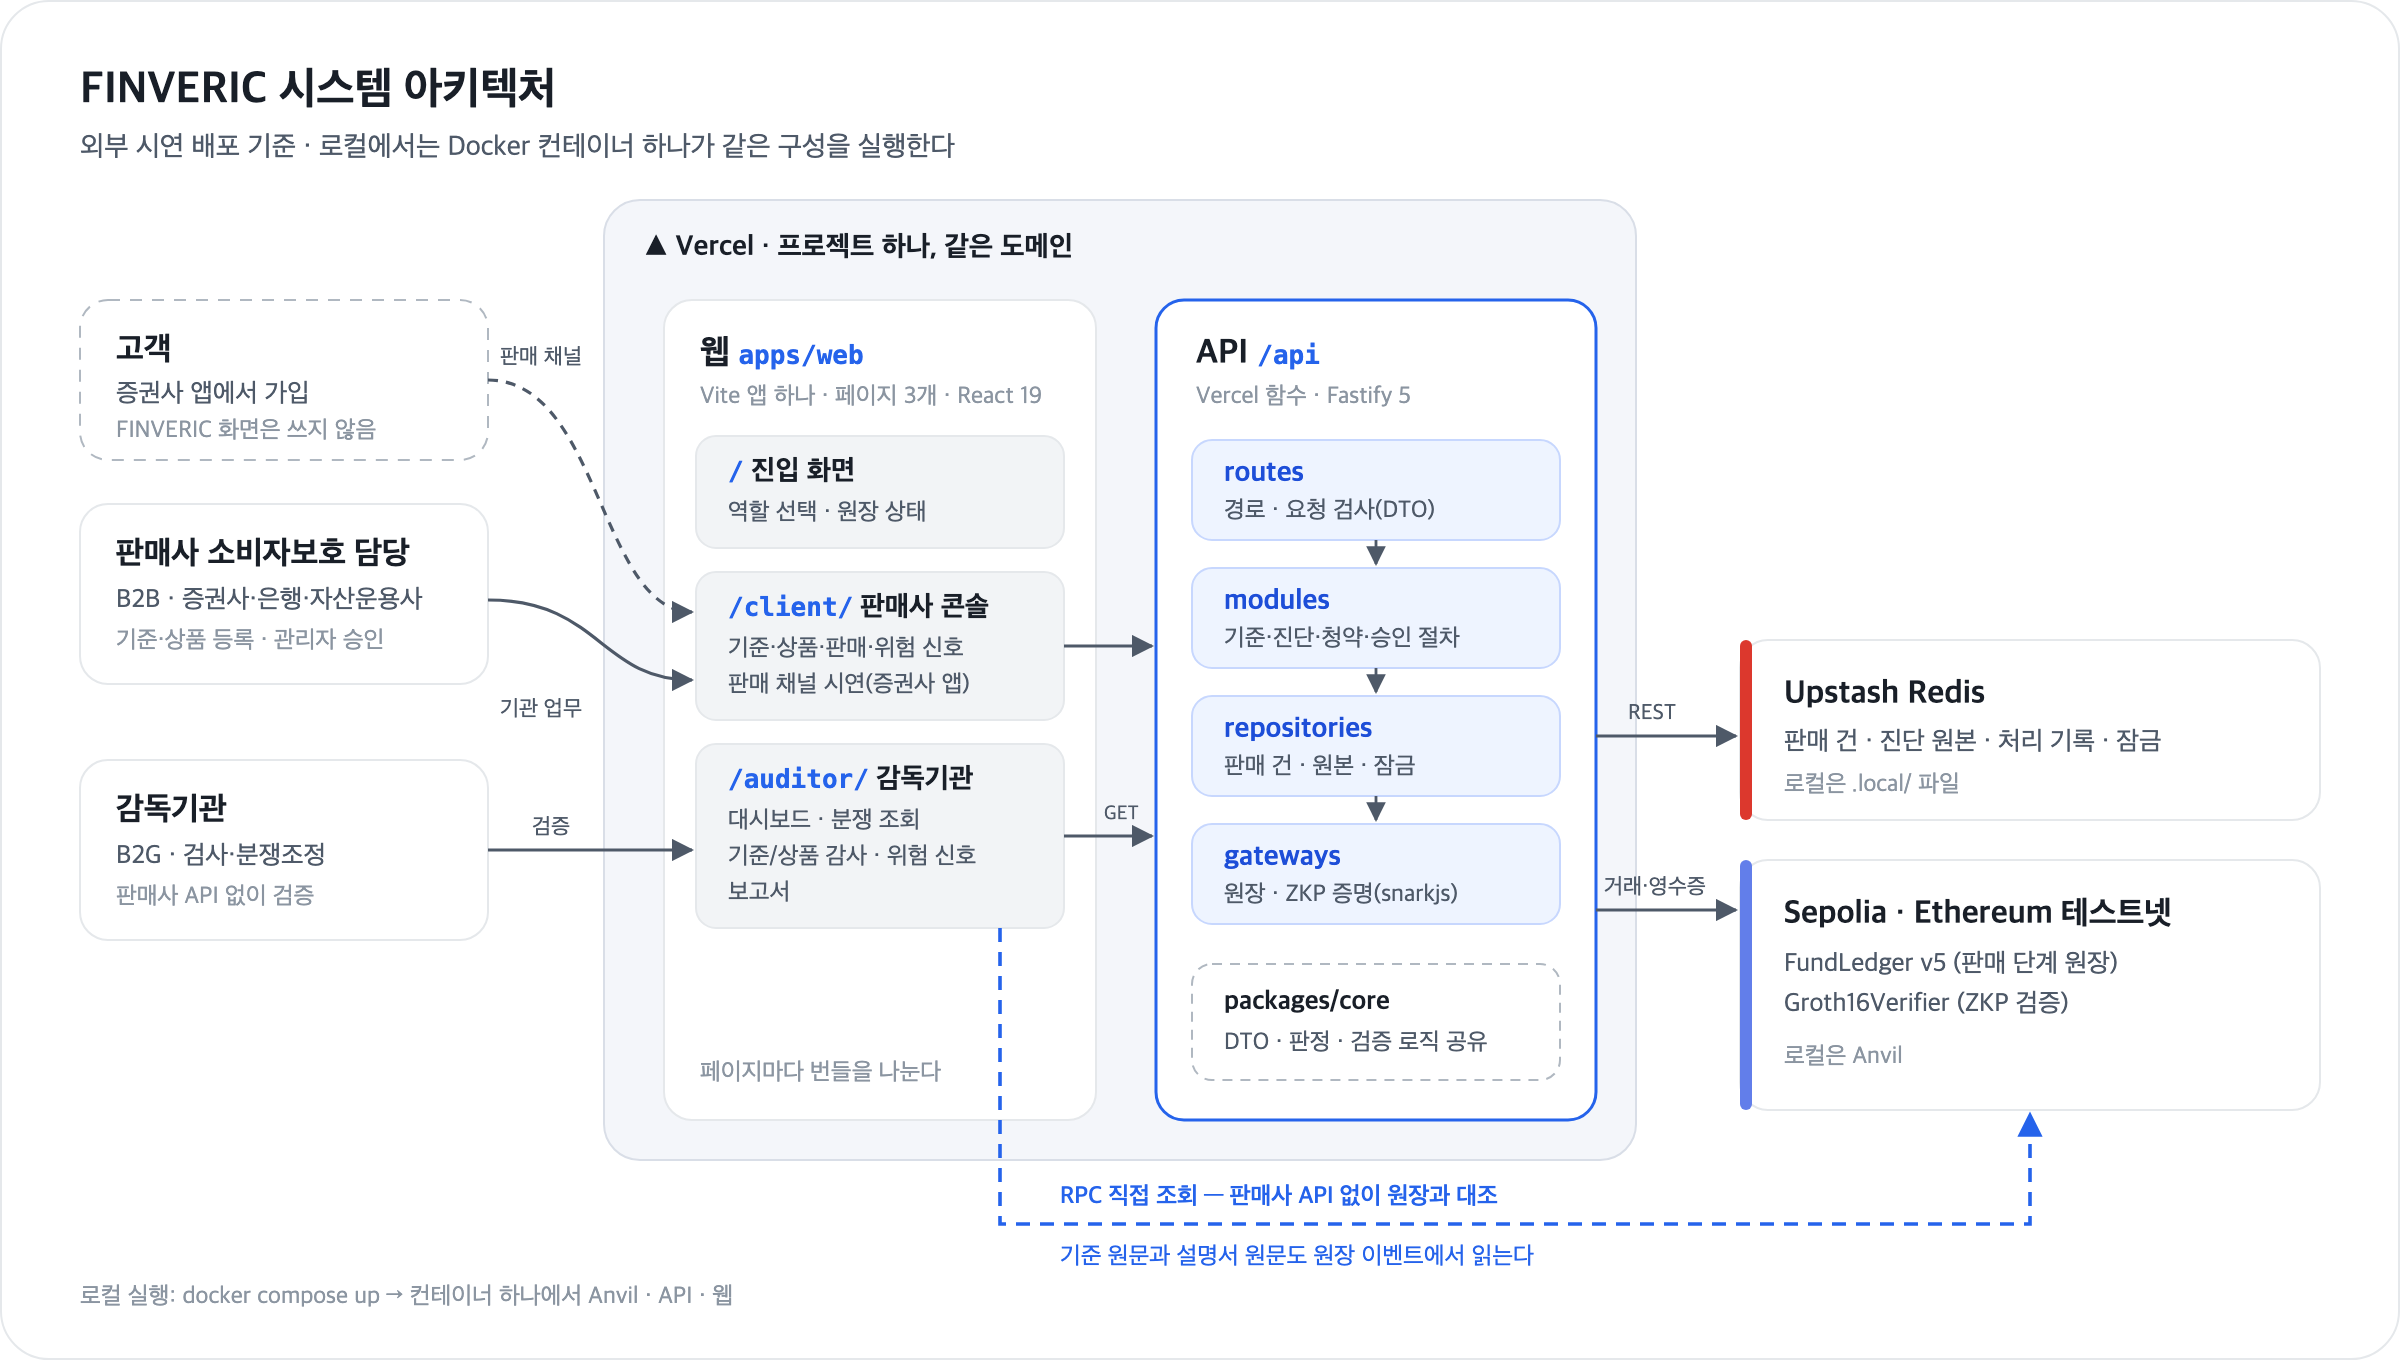
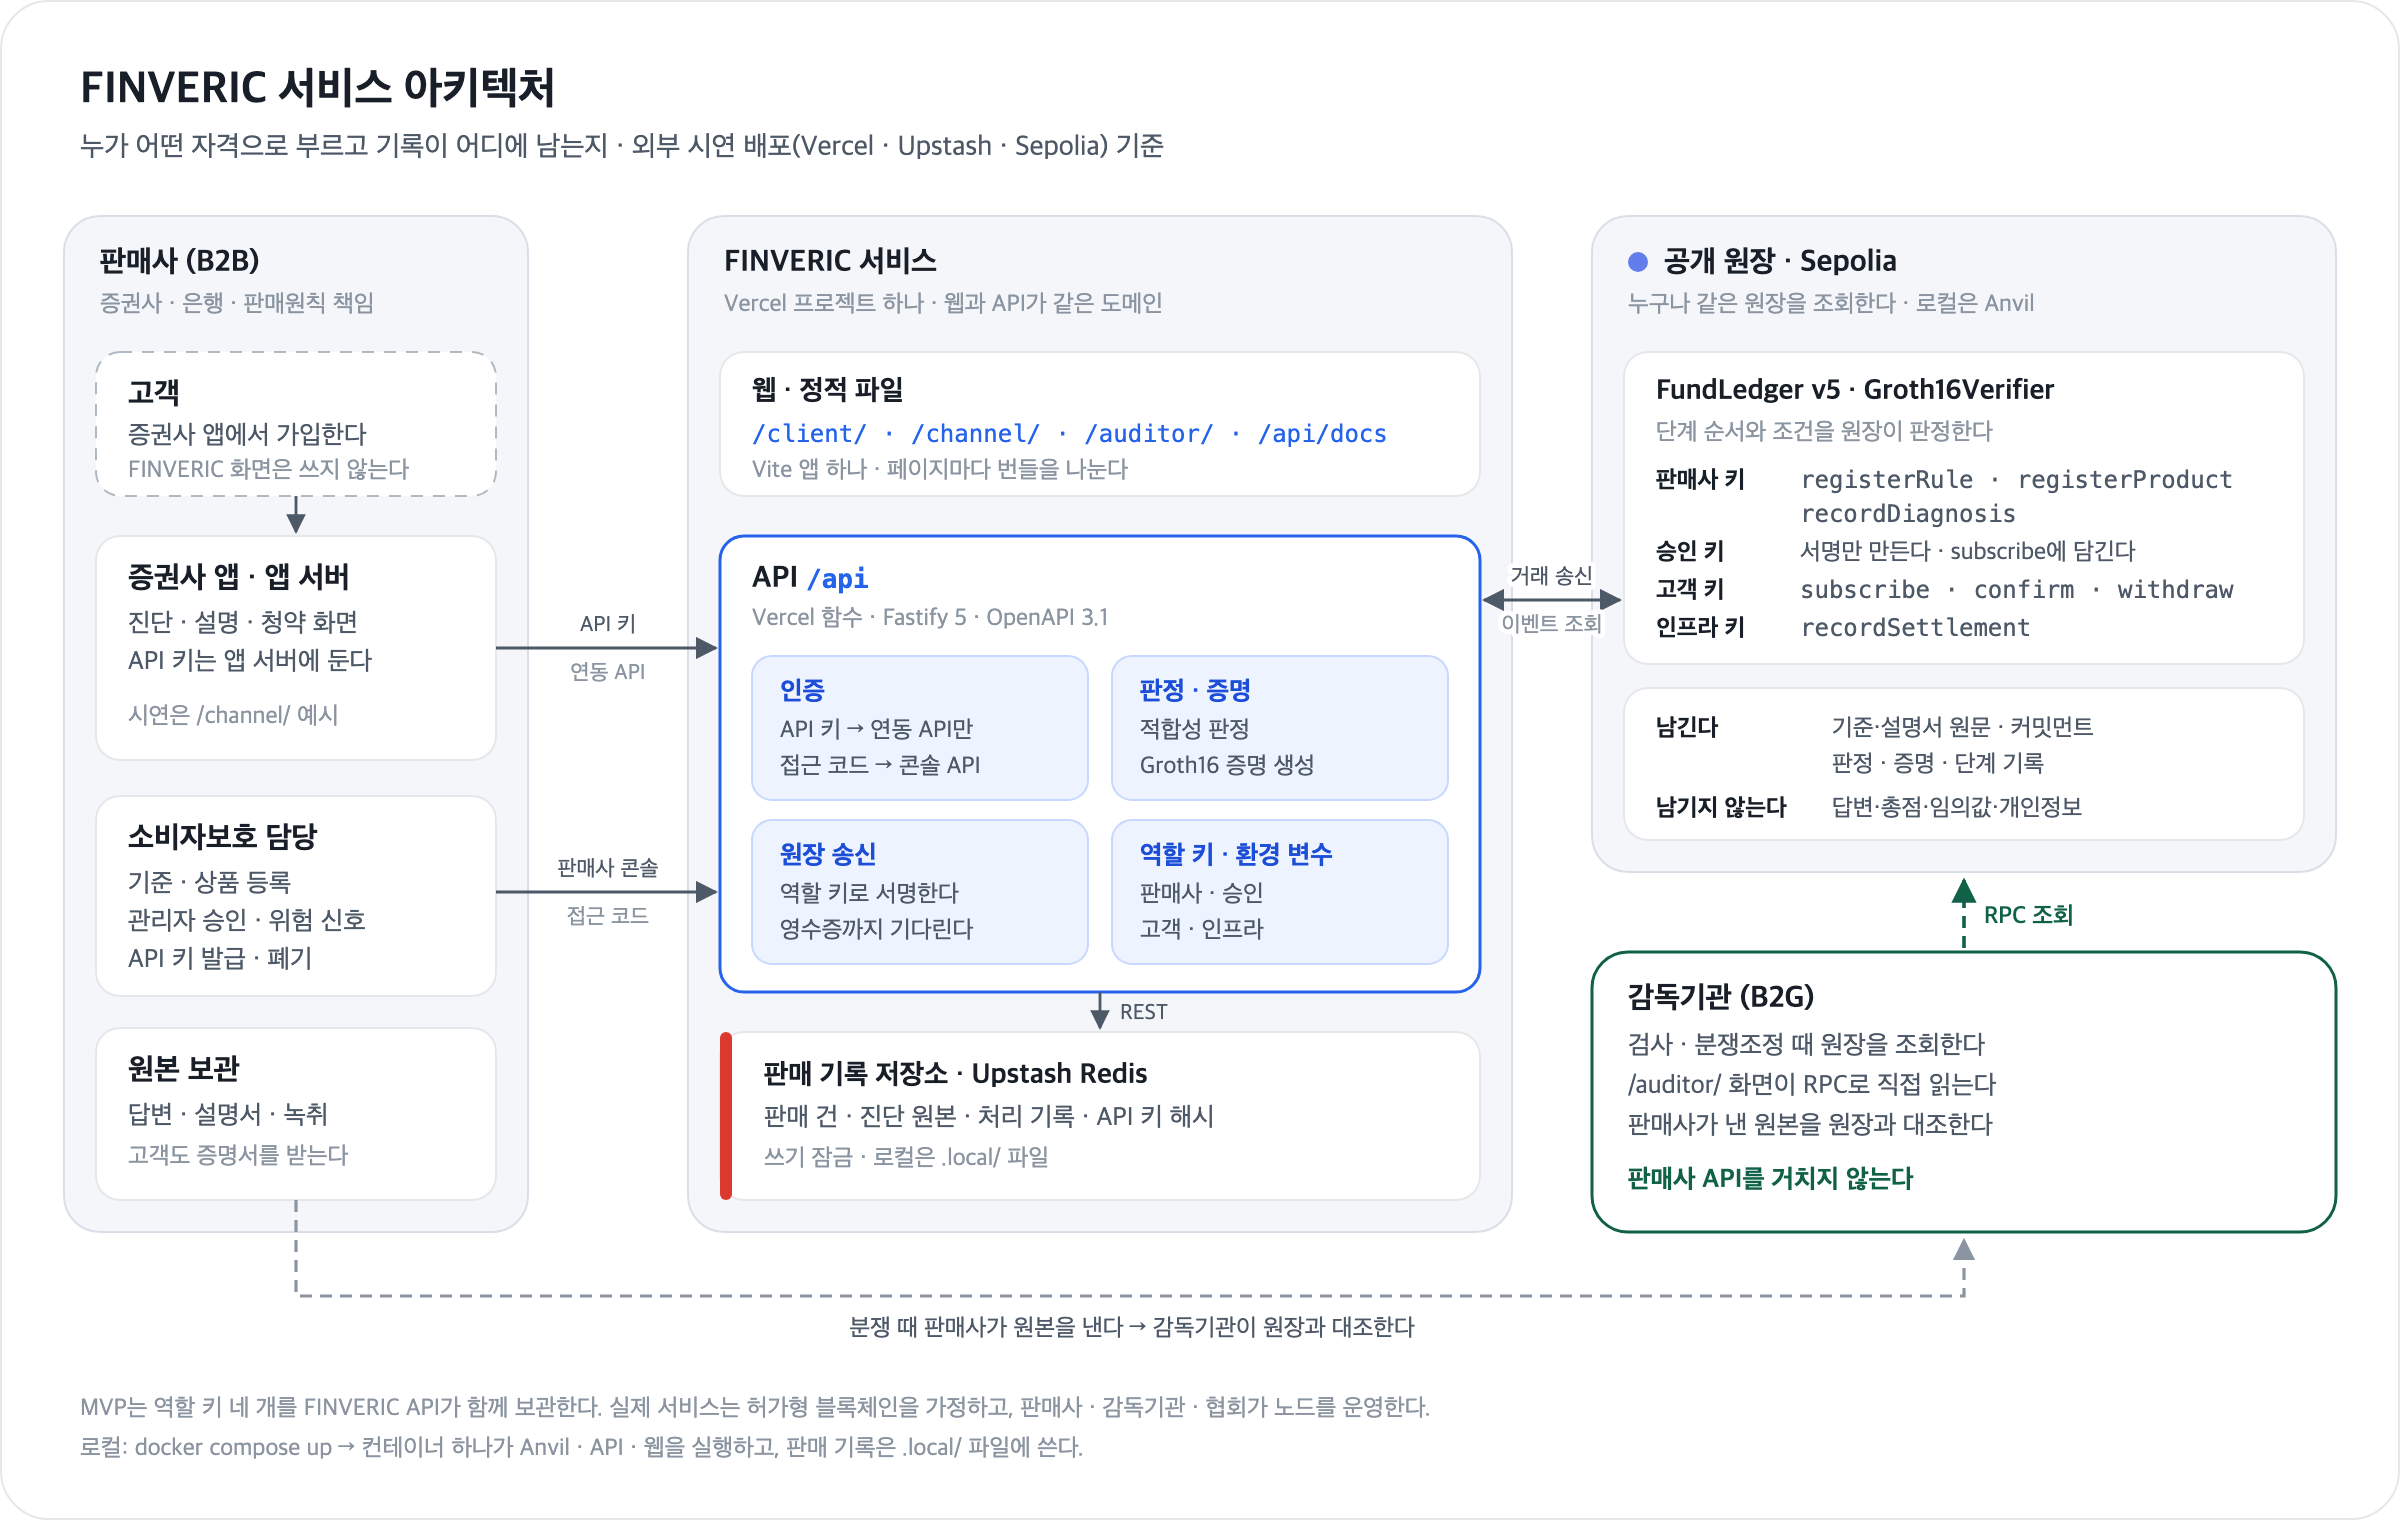
Redraw the architecture diagram as a service operation view
The old diagram showed code folders and API layers. The new one shows
who calls FINVERIC and with which credential (API key for the
securities app server, access code for the seller console), which role
key sends each ledger transaction, what the store and the public ledger
keep, and the regulator's RPC path that skips the seller API.

The README bullets under the diagram now describe operations. The API
layer note moved under the folder tree.

diff --git a/README.md b/README.md
@@ -65,15 +65,14 @@
 
 ## 🏭 아키텍처
 
-![FINVERIC 시스템 아키텍처](docs/assets/architecture.png)
+![FINVERIC 서비스 아키텍처](docs/assets/architecture.png)
 
-- 웹(Vite 앱 하나, 페이지 네 개)과 API를 Vercel 프로젝트 하나, 같은 도메인에 둔다. 루트 `/`는 진입 화면이다. ([ADR 0006](docs/adr/0006-seller-console-and-single-web-app.md))
+- 웹(Vite 앱 하나, 페이지 네 개)과 API를 Vercel 프로젝트 하나, 같은 도메인에 둔다. 상시 서버는 없다. 루트 `/`는 진입 화면이다. ([ADR 0002](docs/adr/0002-vercel-functions-and-upstash.md), [ADR 0006](docs/adr/0006-seller-console-and-single-web-app.md))
 - API는 등록한 경로로 OpenAPI 3.1 문서를 만든다. 판매사 앱은 `판매 채널 연동` API로 고객 흐름을 만든다. ([ADR 0007](docs/adr/0007-openapi-and-channel-sample-app.md))
-- 증권사 앱 서버는 판매사 콘솔에서 발급한 API 키로 `판매 채널 연동` API를 부른다. 서버는 키의 해시만 보관한다. ([ADR 0008](docs/adr/0008-api-keys.md))
+- API를 부르는 쪽은 둘이다. 소비자보호 담당은 판매사 콘솔에서 접근 코드로 쓴다. 증권사 앱 서버는 판매사 콘솔에서 발급한 API 키로 `판매 채널 연동` API만 부른다. 서버는 키의 해시만 보관한다. ([ADR 0008](docs/adr/0008-api-keys.md))
 - 오류 응답은 `{ error, type, code }`다. `type`은 분류 16개이고 HTTP 상태를 정한다. `code`는 상황별 코드 52개(`SALE_ALREADY_SUBSCRIBED` 등)다. 코드 목록은 `@finveric/core/errors` 한곳에만 있고, API 문서의 오류 표도 여기서 만든다. 고객 화면은 API 문장을 그대로 보여 주지 않고 `type`으로 고객용 문장을 고른다.
+- API가 역할 키(판매사, 승인, 고객, 인프라)로 원장 거래를 보낸다. 단계별 송신자는 [PRD의 판매 절차](docs/prd.md#판매-절차와-원장-기록)를 따른다. MVP는 네 키를 API가 함께 보관한다. 실제 서비스는 허가형 블록체인을 가정한다.
 - 원장 v5는 진단 기준과 설명서 원문을 이벤트에 남긴다. 감독기관 화면은 판매사 API 없이 원장에서 읽는다. ([ADR 0005](docs/adr/0005-ledger-v5-registered-rules.md))
-- API는 경로 → 업무 절차 → 리포지토리·게이트웨이 계층으로 나눈다. ([ADR 0004](docs/adr/0004-api-layers.md))
-- 요청·응답 DTO와 판정·검증 로직은 `packages/core`(`@finveric/core`)에 두고 API, 웹, 스크립트, 테스트가 함께 쓴다. 웹 화면 요소와 스타일은 `apps/web/src/shared`에 둔다.
 - 판매 기록은 로컬에서는 파일에, 배포에서는 Upstash Redis에 둔다. 별도 DB 서버는 없다.
 
 ### 가입과 검증 흐름
@@ -210,6 +209,8 @@ scripts/       개발·배포·시연 스크립트
 tests/         통합 검사
 docs/          문서, 그림(assets/)
 ```
+
+API 안의 계층(경로 → 업무 절차 → 리포지토리·게이트웨이)은 [ADR 0004](docs/adr/0004-api-layers.md)를 따른다.
 
 | 명령                                                             | 내용                                                                                                |
 | ---------------------------------------------------------------- | --------------------------------------------------------------------------------------------------- |
